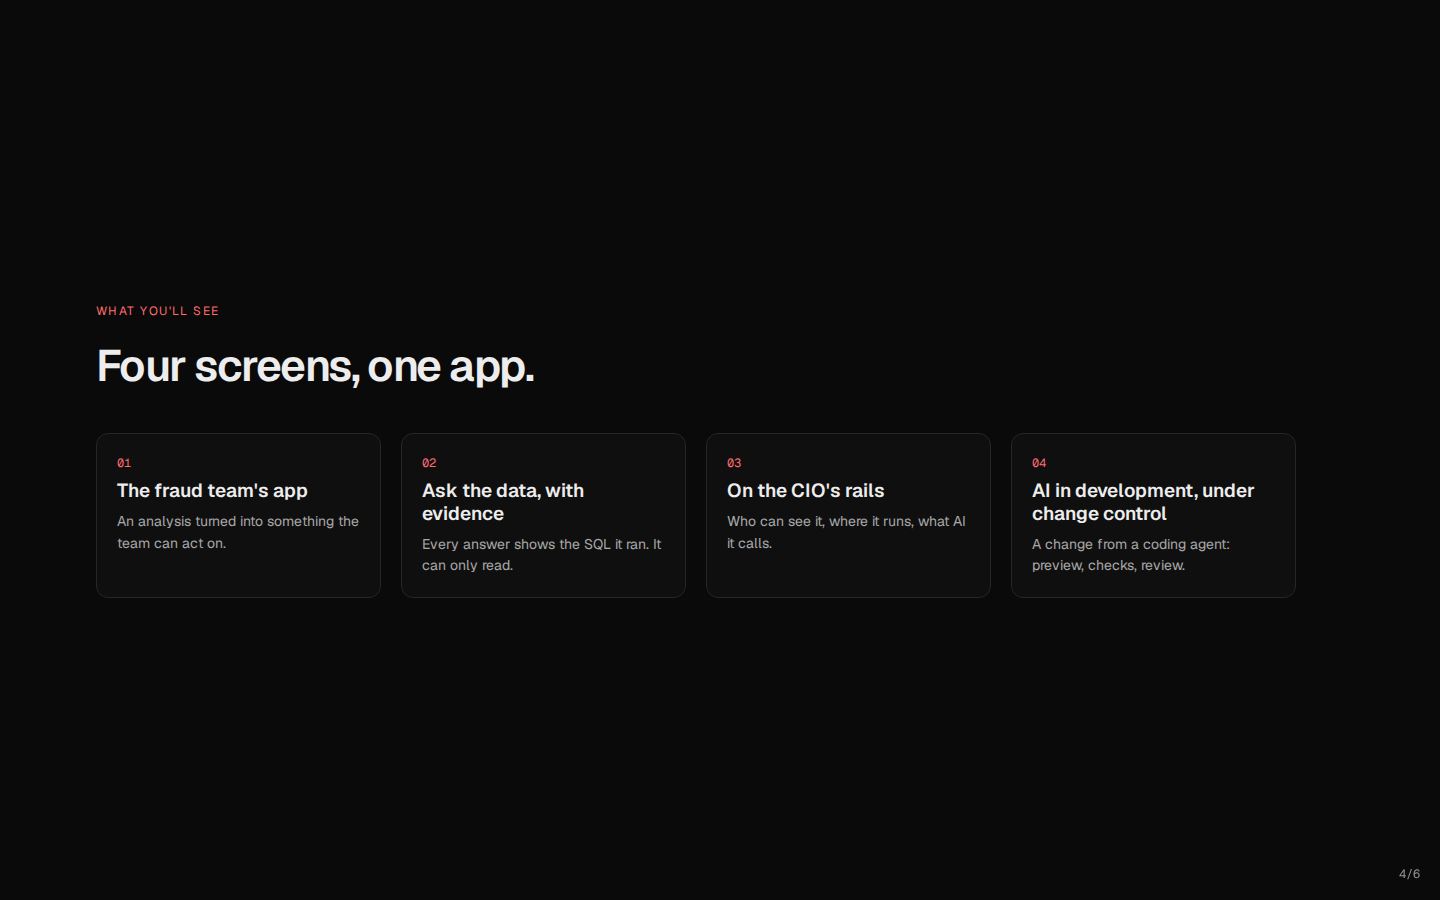
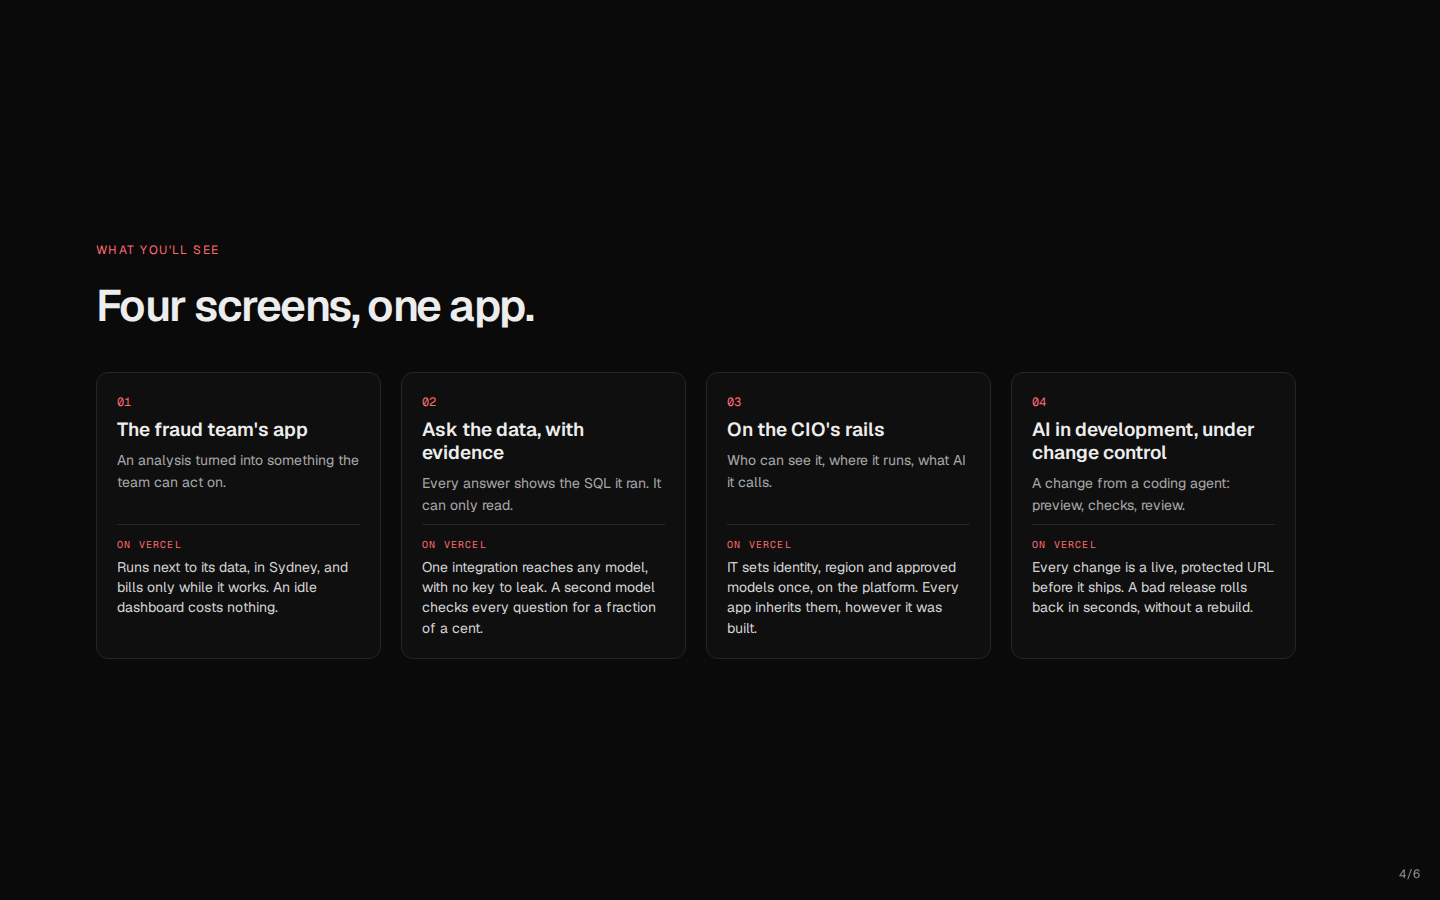
Intro: an 'On Vercel' value line under each of the four screens; script tells you who each is for
Claude-Session: https://claude.ai/code/session_01H7A5xcNUJUouFfBrebwvkY

diff --git a/lib/introCopy.ts b/lib/introCopy.ts
@@ -32,10 +32,10 @@ export const INTRO = {
     kicker: "What you'll see",
     title: "Four screens, one app.",
     cards: [
-      { key: "story", title: "The fraud team's app", text: "An analysis turned into something the team can act on.", href: "/story" },
-      { key: "ask", title: "Ask the data, with evidence", text: "Every answer shows the SQL it ran. It can only read.", href: "/ask" },
-      { key: "gov", title: "On the CIO's rails", text: "Who can see it, where it runs, what AI it calls.", href: "/governance" },
-      { key: "pr", title: "AI in development, under change control", text: "A change from a coding agent: preview, checks, review.", href: "PR" },
+      { key: "story", title: "The fraud team's app", text: "An analysis turned into something the team can act on.", vercel: "Runs next to its data, in Sydney, and bills only while it works. An idle dashboard costs nothing.", href: "/story" },
+      { key: "ask", title: "Ask the data, with evidence", text: "Every answer shows the SQL it ran. It can only read.", vercel: "One integration reaches any model, with no key to leak. A second model checks every question for a fraction of a cent.", href: "/ask" },
+      { key: "gov", title: "On the CIO's rails", text: "Who can see it, where it runs, what AI it calls.", vercel: "IT sets identity, region and approved models once, on the platform. Every app inherits them, however it was built.", href: "/governance" },
+      { key: "pr", title: "AI in development, under change control", text: "A change from a coding agent: preview, checks, review.", vercel: "Every change is a live, protected URL before it ships. A bad release rolls back in seconds, without a rebuild.", href: "PR" },
     ],
   },
   tiers: {

diff --git a/app/intro/page.tsx b/app/intro/page.tsx
@@ -83,6 +83,11 @@ export default async function IntroPage() {
                 <span className="font-mono text-[12px] text-signal-700">{String(i + 1).padStart(2, "0")}</span>
                 <span className="text-[19px] font-semibold leading-[1.2]">{c.title}</span>
                 <span className="text-[14px] text-foreground/70">{c.text}</span>
+                {/* The platform value behind the screen; pinned to the card bottom so the four line up. */}
+                <span className="mt-auto flex flex-col gap-1 border-t border-border pt-3">
+                  <span className="font-mono text-[10px] uppercase tracking-[0.12em] text-signal-700">On Vercel</span>
+                  <span className="min-h-[5.8em] text-[14px] leading-[1.45] text-foreground/90">{c.vercel}</span>
+                </span>
               </>
             );
             const cls = `${CARD} flex min-w-0 flex-col gap-2 px-5 py-5 text-foreground no-underline transition-colors hover:border-border-strong hover:text-foreground`;

diff --git a/docs/demo/demo-script.md b/docs/demo/demo-script.md
@@ -66,7 +66,11 @@ Start on the app's root URL; it opens `/intro` full-screen. Move with the arrow 
 2. **The tension.** Look at each of them in turn: Head of Fraud, "keep the speed"; CIO, "I keep
    inheriting apps I didn't build." Read the APRA line aloud.
 3. **The thesis.** Pause on it. Say it once, slowly.
-4. **What you'll see.** Name the four acts; don't click yet.
+4. **What you'll see.** Name the four acts; don't click yet. Each card has an **On Vercel** line:
+   read the one that matches the person you're looking at. Cards 01 and 02 to the Head of Fraud
+   (idle costs nothing; any model, no key, checked). Cards 03 and 04 to the CIO (set once, every app
+   inherits; every change a protected URL, rollback in seconds). These are the promises the rest of
+   the demo proves.
 5. **Three tiers.** One sentence: "Everything you'll see runs on Vercel's free tier."
 6. **Start the demo →** takes you to the Story.
 
